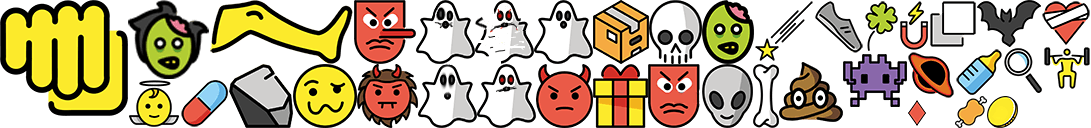
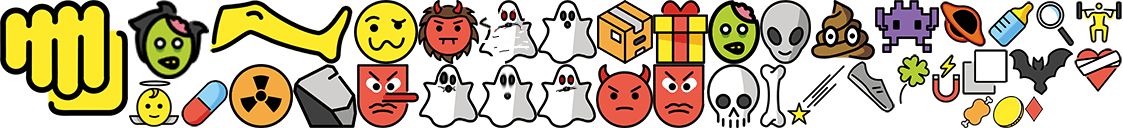
feat(weapon): 新增辐射武器

diff --git a/src/scripts/consts/WEAPONS.ts b/src/scripts/consts/WEAPONS.ts
@@ -14,7 +14,7 @@ const WEAPONS = {
       // 频率 越小越快
       interval: 1350,
       repeatInterval: 100,
-      power: 0.1,
+      power: 1,
       area: 1,
       speed: 1,
       amount: 1,
@@ -54,16 +54,16 @@ const WEAPONS = {
       tips: '',
       isUnlocked: true,
       rarity: 100,
-      interval: 3000,
+      interval: 2500,
       repeatInterval: 100,
-      power: 0.2,
+      power: 1,
       area: 1.2,
       speed: 1,
       amount: 1,
       hitsWalls: false
     },
     {
-      area: 0.2,
+      area: 0.1,
       interval: -200
     },
     {
@@ -81,6 +81,7 @@ const WEAPONS = {
       power: 0.5
     },
     {
+      area: 0.2,
       power: 0.5
     },
     {
@@ -461,6 +462,53 @@ const WEAPONS = {
     },
     {
       penetrating: 2
+    }
+  ],
+  [WeaponType.RADIOACTIVE]: [
+    {
+      level: 1,
+      bulletType: WeaponType.RADIOACTIVE,
+      name: '辐射',
+      description: '吃了来自某国家的海鲜，持续辐射敌人',
+      tips: '',
+      frameName: 'radioactive_bullet.png',
+      isUnlocked: true,
+      rarity: 70,
+      interval: 1000,
+      repeatInterval: 0,
+      power: 0.5,
+      area: 1,
+      speed: 1,
+      amount: 1,
+      knockback: 0
+    },
+    {
+      area: 0.4,
+      power: 0.2
+    },
+    {
+      interval: -100,
+      power: 0.1
+    },
+    {
+      area: 0.2,
+      power: 0.2
+    },
+    {
+      interval: -100,
+      power: 0.2
+    },
+    {
+      area: 0.2,
+      power: 0.1
+    },
+    {
+      interval: -100,
+      power: 0.1
+    },
+    {
+      area: 0.2,
+      power: 0.2
     }
   ]
 }

diff --git a/src/scripts/game/weapon/RadioActiveWeapon.ts b/src/scripts/game/weapon/RadioActiveWeapon.ts
@@ -1,0 +1,53 @@
+import WeaponType from '../../enums/WeaponType'
+import Game from '../Game'
+import GameCore from '../GameCore'
+import BaseWeapon from './BaseWeapon'
+
+export default class RadioActiveWeapon extends BaseWeapon {
+  image: Phaser.GameObjects.Image
+  imageTween: Phaser.Tweens.Tween
+  imageTween2: Phaser.Tweens.Tween
+  constructor(bulletType: WeaponType, isNewWeapon: boolean = true) {
+    super(bulletType, isNewWeapon)
+    this.image = Game.Core.scene.add.image(0, 0, 'main', 'radioactive_bullet.png')
+    this.image.setAlpha(0.1)
+    this.image.copyPosition(Game.Core.Player)
+    this.image.setScale(2 * GameCore.PixelScale * this.PArea)
+    this.imageTween = Game.Core.scene.add.tween({
+      targets: this.image,
+      alpha: 0.3,
+      loop: true,
+      yoyo: true,
+      loopDelay: 100,
+      duration: 1000,
+      ease: 'Linear',
+      repeat: -1
+    })
+    this.imageTween2 = Game.Core.scene.add.tween({
+      targets: this.image,
+      angle: 360,
+      loop: true,
+      duration: 6000,
+      ease: 'Linear',
+      repeat: -1
+    })
+  }
+  get PAmount() {
+    return 1
+  }
+  Fire() {
+    return this.image.setScale(2 * GameCore.PixelScale * this.PArea), super.Fire()
+  }
+  Update() {
+    this.image.copyPosition(Game.Core.Player),
+      this.image.setDepth(Game.Core.Player.depth - 0.5 * Game.Core.scene.renderer.height)
+  }
+  CleanUp() {
+    super.CleanUp()
+    this.image.setVisible(!1)
+    this.image.setActive(!1)
+    this.image.destroy()
+    this.imageTween.stop()
+    this.imageTween2.stop()
+  }
+}

diff --git a/src/scripts/game/weapon/RadioactiveBullet.ts b/src/scripts/game/weapon/RadioactiveBullet.ts
@@ -1,0 +1,33 @@
+import Game from '../Game'
+import GameCore from '../GameCore'
+import BaseBullet from './BaseBullet'
+import BaseWeapon from './BaseWeapon'
+import { BulletGroup } from './BulletGroup'
+
+export default class RadioActiveBullet extends BaseBullet {
+  radius: number
+  ExpireTimer: Phaser.Time.TimerEvent
+  constructor(group: BulletGroup, weapon: BaseWeapon, indexInWeapon = 0, x: number = 0, y: number = 0) {
+    super(group, weapon, indexInWeapon, 'radioactive_bullet.png', x, y)
+    this.radius = 32
+    this.copyPosition(Game.Core.Player)
+  }
+  OnRecycle(): void {
+    super.OnRecycle()
+    this.body.setCircle(this.radius)
+    this.setScale(2 * GameCore.PixelScale * this.weapon.PArea)
+    this.setVisible(false)
+    Game.Core.scene.time.removeEvent(this.ExpireTimer)
+    this.ExpireTimer = Game.Core.scene.time.addEvent({
+      delay: this.weapon.PInterval,
+      loop: false,
+      callback: () => {
+        Game.Core.scene.time.removeEvent(this.ExpireTimer)
+        this.DeSpawn()
+      }
+    })
+  }
+  Update() {
+    this.copyPosition(Game.Core.Player)
+  }
+}

diff --git a/src/scripts/consts/STAGES.ts b/src/scripts/consts/STAGES.ts
@@ -199,7 +199,7 @@ const STAGES: {
     },
     {
       minute: 11,
-      minimum: 200,
+      minimum: 300,
       frequency: 100,
       enemies: [EnemyType.BAT],
       events: [
@@ -207,7 +207,7 @@ const STAGES: {
           eventType: StageEventType.BAT_SWARM,
           delay: 5000,
           repeat: 1,
-          chance: 80
+          chance: 10
         }
       ]
     },
@@ -260,6 +260,14 @@ const STAGES: {
       minimum: 100,
       frequency: 100,
       enemies: [EnemyType.GOBLIN, EnemyType.HORN],
+      bosses: [EnemyType.ALIEN_BOSS]
+    },
+    {
+      destructibleType: DestructibleType.GIFT,
+      minute: 16,
+      minimum: 500,
+      frequency: 100,
+      enemies: [EnemyType.HORN, EnemyType.GOBLIN, EnemyType.ALIEN],
       bosses: [EnemyType.ALIEN_BOSS]
     }
   ]

diff --git a/src/scripts/game/weapon/WeaponFactory.ts b/src/scripts/game/weapon/WeaponFactory.ts
@@ -2,6 +2,7 @@ import WEAPONS from '../../consts/WEAPONS'
 import WeaponType from '../../enums/WeaponType'
 import BaseWeapon from './BaseWeapon'
 import PowerUpWeapon from './PowerUpWeapon'
+import RadioActiveWeapon from './RadioActiveWeapon'
 
 export default class WeaponFactory {
   GetWeapon(weapon: WeaponType): BaseWeapon {
@@ -17,6 +18,10 @@ export default class WeaponFactory {
         return new BaseWeapon(weapon)
       case WeaponType.FIST:
         return new BaseWeapon(weapon)
+      case WeaponType.ROCK:
+        return new BaseWeapon(weapon)
+      case WeaponType.RADIOACTIVE:
+        return new RadioActiveWeapon(weapon)
     }
   }
 }

diff --git a/src/scripts/game/weapon/BulletGroup.ts b/src/scripts/game/weapon/BulletGroup.ts
@@ -8,6 +8,7 @@ import Enemy from '../enemy/Enemy'
 import FistBullet from './FistBullet'
 import BoneBullet from './BoneBullet'
 import RockBullet from './RockBullet'
+import RadioActiveBullet from './RadioactiveBullet'
 
 export class BulletGroup extends Phaser.GameObjects.Group {
   stored: Bullet[]
@@ -68,6 +69,8 @@ export class BulletGroup extends Phaser.GameObjects.Group {
         return new FistBullet(this, weapon, index)
       case Weapons.ROCK:
         return new RockBullet(this, weapon, index)
+      case Weapons.RADIOACTIVE:
+        return new RadioActiveBullet(this, weapon, index)
     }
   }
 }

diff --git a/src/scripts/game/ui/LevelUpItemPanel.ts b/src/scripts/game/ui/LevelUpItemPanel.ts
@@ -67,7 +67,9 @@ export default class LevelUpItemPanel extends Phaser.GameObjects.Container {
       const v = nextLevelData[key]
       switch (key) {
         case 'power':
-          temp += `${isPowerUp ? '[全部]' : ''}攻击力提升${(v * 100).toFixed(0)}%\n`
+          temp += `${isPowerUp ? '[全部]攻击力提升' : '攻击力增加'}${
+            isPowerUp ? (v * 100).toFixed(0) : (v * 10).toFixed(0)
+          }${isPowerUp ? '%' : ''}\n`
           break
         case 'area':
           temp += `${isPowerUp ? '[全部]' : ''}攻击范围提升${(v * 100).toFixed(0)}%\n`

diff --git a/src/scripts/game/weapon/BaseBullet.ts b/src/scripts/game/weapon/BaseBullet.ts
@@ -24,7 +24,7 @@ export default class BaseBullet extends Phaser.Physics.Arcade.Sprite {
     group: BulletGroup,
     weapon: BaseWeapon,
     indexInWeapon = 0,
-    frame: string | number = Weapons.LEG,
+    frame: string | number = '',
     x: number = 0,
     y: number = 0,
     texture: string | Phaser.Textures.Texture = 'main'

diff --git a/src/scripts/enums/WeaponType.ts b/src/scripts/enums/WeaponType.ts
@@ -4,6 +4,7 @@ enum WeaponType {
   BONE = 'BONE',
   FIST = 'FIST',
   ROCK = 'ROCK',
+  RADIOACTIVE = 'RADIOACTIVE',
   MAGNET = 'MAGNET',
   MIGHT = 'MIGHT',
   AMOUNT = 'AMOUNT',
